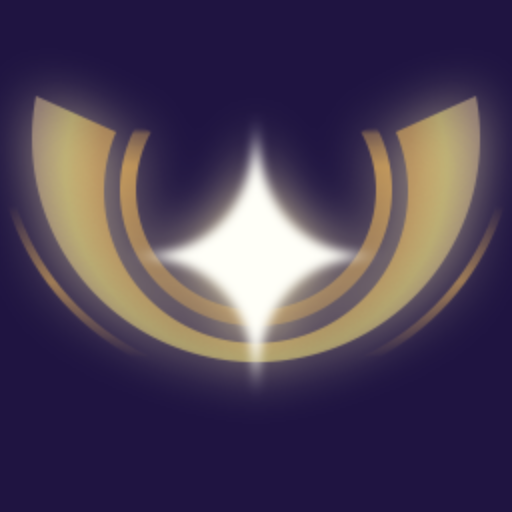
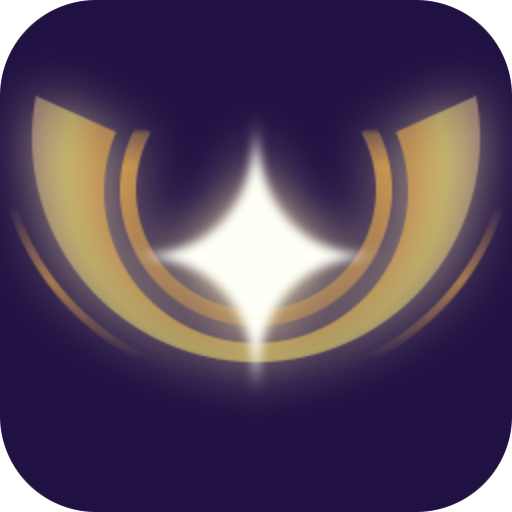
-

diff --git a/stuff.html b/stuff.html
@@ -7,7 +7,7 @@
 		<meta charset="utf-8">
 		<meta name="viewport" content="width=device-width,initial-scale=1.0">
 		<title>sky_stuff</title>
-		<link rel="shortcut icon" type="image/png" href="img/sky_192.png">
+		<link rel="shortcut icon" type="image/png" href="img/ico/sky.jpg">
 	</head>
 	<body>
 		<script src="style.js"></script>
